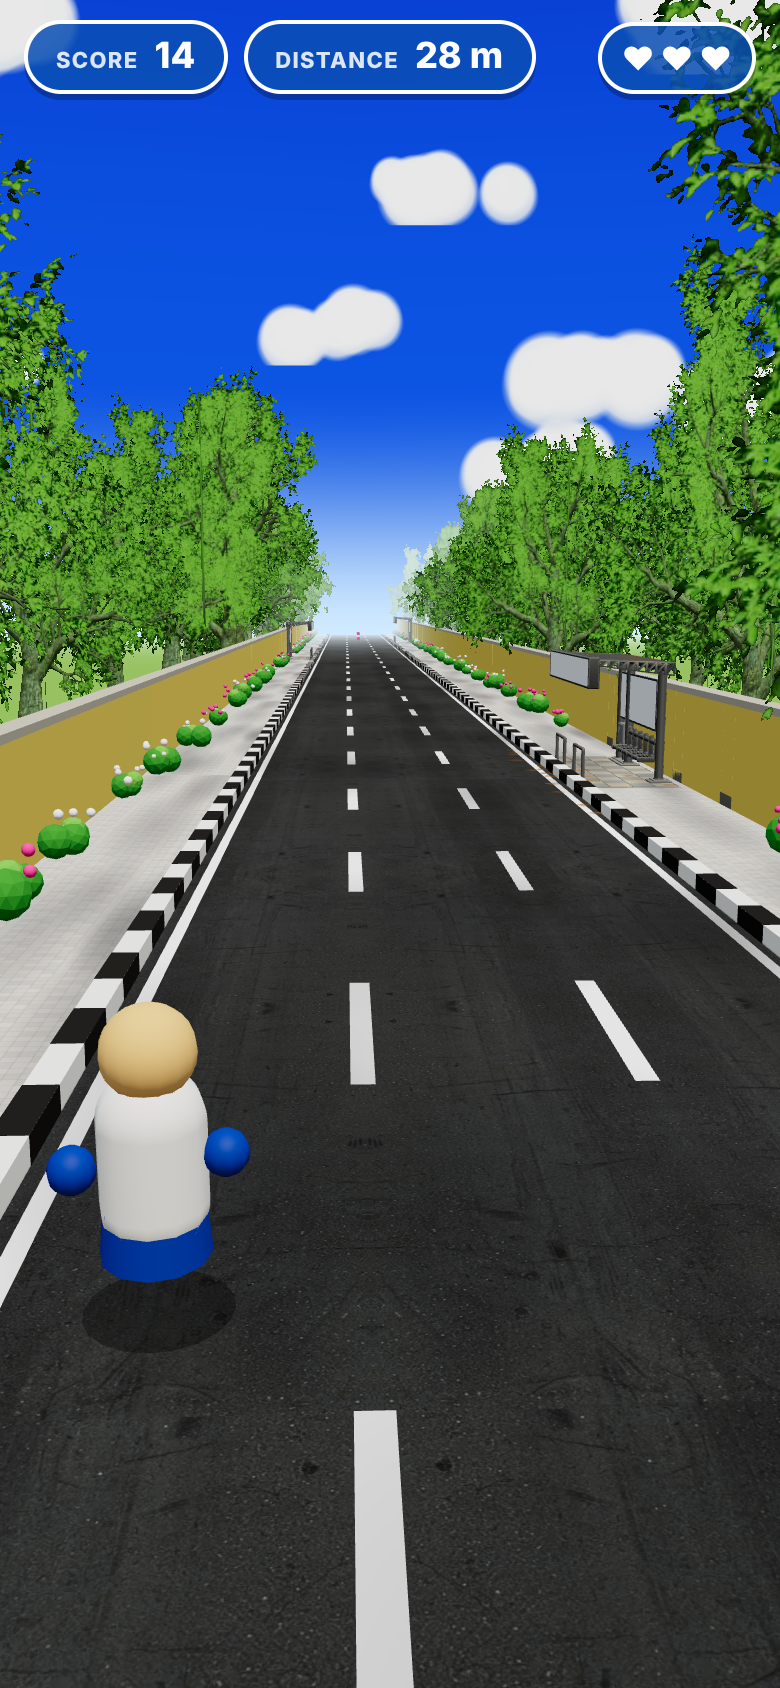
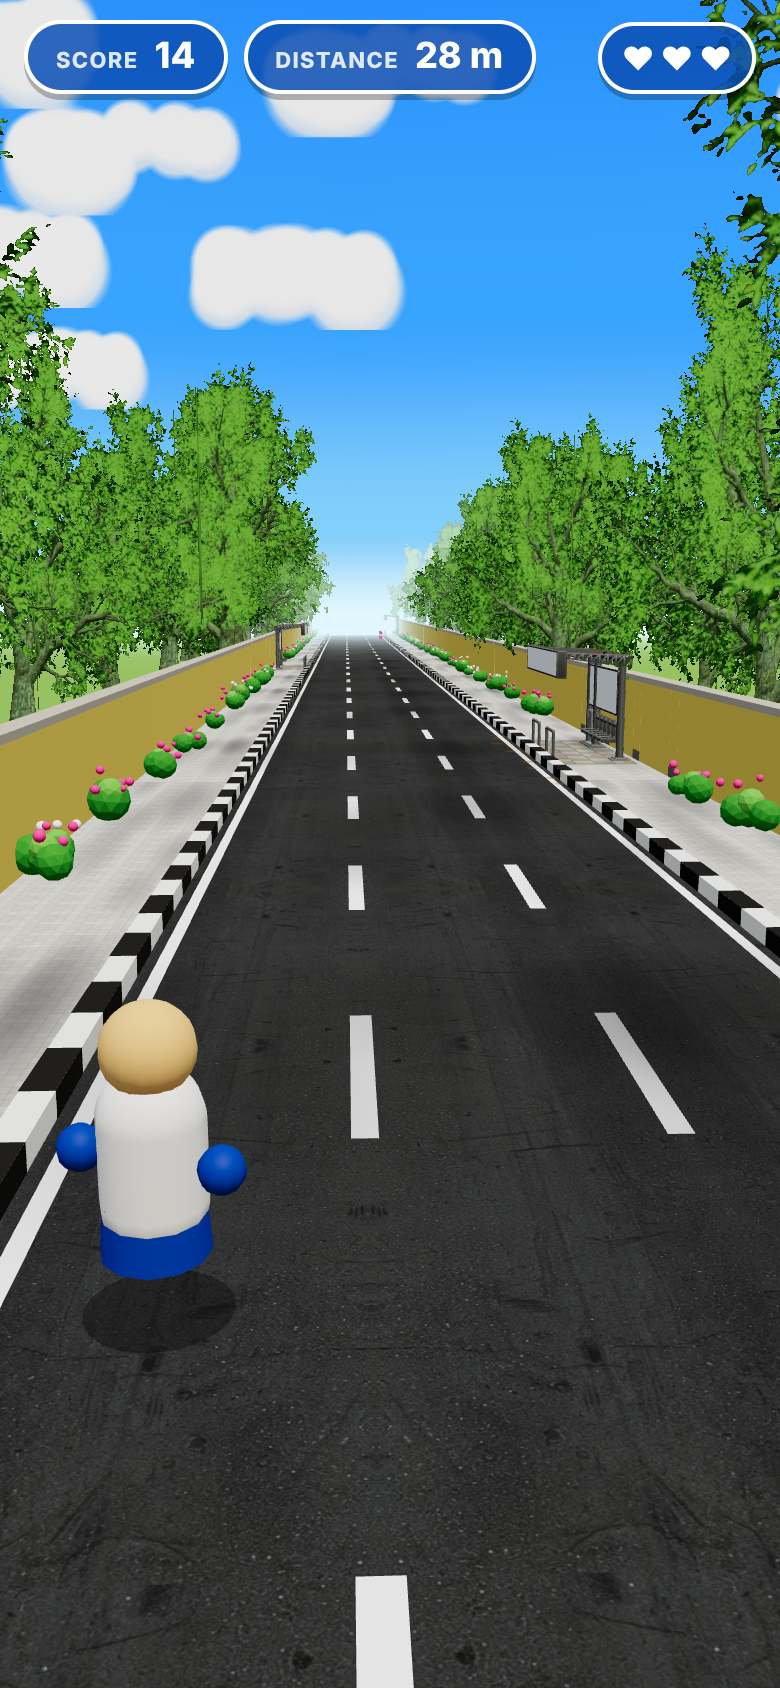
Sky: reference-sampled gradient with correct output colour space; fully inlined artifact build
Claude-Session: https://claude.ai/code/session_015MHPvXtKwbps1DwJmjDf5T

diff --git a/public/js/sky.js b/public/js/sky.js
@@ -12,6 +12,7 @@ export function createSky() {
     uniforms: {
       top: { value: new THREE.Color(COLORS.skyTop) },
       mid: { value: new THREE.Color(COLORS.skyMid) },
+      low: { value: new THREE.Color(COLORS.skyLow) },
       horizon: { value: new THREE.Color(COLORS.skyHorizon) },
     },
     vertexShader: `
@@ -21,13 +22,14 @@ export function createSky() {
         gl_Position = projectionMatrix * modelViewMatrix * vec4(position, 1.0);
       }`,
     fragmentShader: `
-      uniform vec3 top; uniform vec3 mid; uniform vec3 horizon; varying float vY;
+      uniform vec3 top; uniform vec3 mid; uniform vec3 low; uniform vec3 horizon; varying float vY;
       void main() {
-        // horizon haze -> vivid mid blue -> deep zenith, like a sunny midday sky
-        float a = smoothstep(-0.02, 0.18, vY);
-        float b = smoothstep(0.18, 0.75, vY);
-        vec3 c = mix(mix(horizon, mid, a), top, b);
+        // white haze at the horizon -> light blue -> vivid blue -> saturated zenith
+        vec3 c = mix(horizon, low, smoothstep(0.0, 0.07, vY));
+        c = mix(c, mid, smoothstep(0.07, 0.22, vY));
+        c = mix(c, top, smoothstep(0.22, 0.6, vY));
         gl_FragColor = vec4(c, 1.0);
+        #include <colorspace_fragment>
       }`,
   });
   const sky = new THREE.Mesh(geo, mat);

diff --git a/public/js/config.js b/public/js/config.js
@@ -24,10 +24,12 @@ export const SCORE_PER_METRE = 0.5;
 export const INVULNERABLE_TIME = 1.6;
 
 export const COLORS = {
-  skyTop: 0x0f5fdc,
-  skyMid: 0x3d9bf2,
-  skyHorizon: 0xeaf6ff,
-  fog: 0xe4f1fb,
+  // Sampled from the reference concept art, top of frame to horizon.
+  skyTop: 0x0174f8,
+  skyMid: 0x39a4fd,
+  skyLow: 0x82cffb,
+  skyHorizon: 0xe1f7fd,
+  fog: 0xe1f7fd,
   asphaltTint: 0x9fa3a7,
   laneLine: 0xffffff,
   kerbWhite: 0xf3f3ee,
